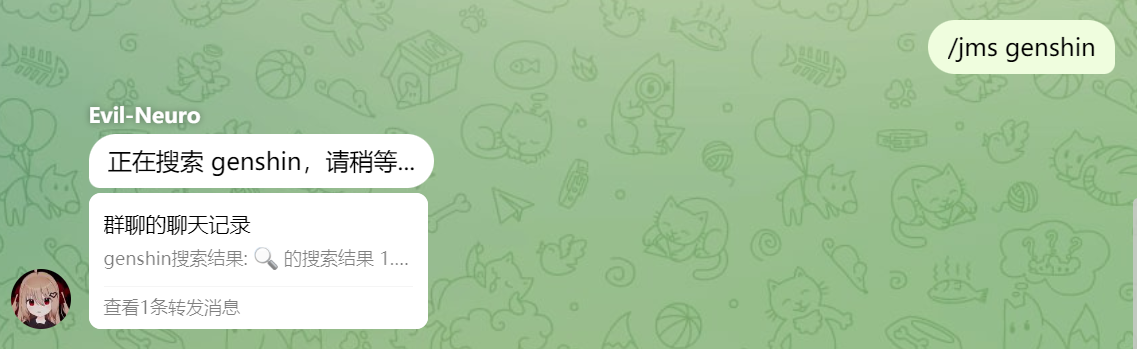
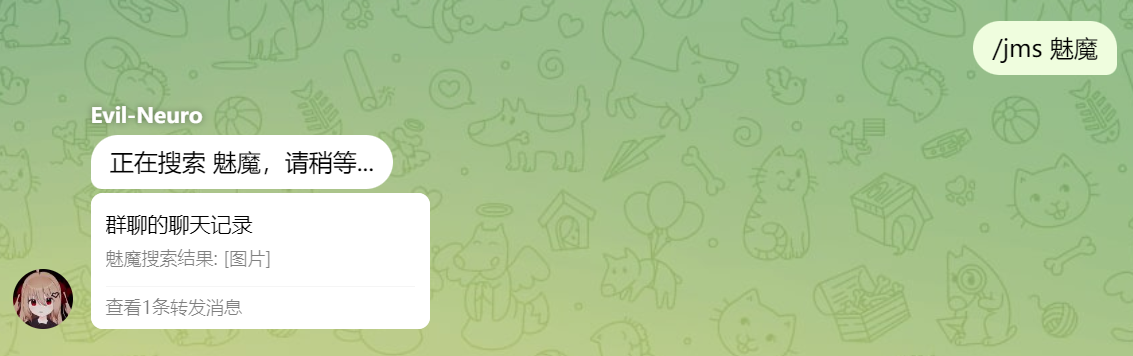
添加搜索结果图片生成支持，更新相关模板和处理逻辑

diff --git a/templates/search_result.html b/templates/search_result.html
@@ -1,0 +1,123 @@
+<!DOCTYPE html>
+<html lang="zh-CN">
+<head>
+    <meta charset="UTF-8">
+    <meta name="viewport" content="width=device-width, initial-scale=1.0">
+    <title>搜索结果</title>
+    <style>
+        body {
+            font-family: 'PingFang SC', 'Microsoft YaHei', sans-serif;
+            background-color: #f5f5f5;
+            color: #333;
+            padding: 20px;
+            max-width: 720px;
+            margin: 0 auto;
+        }
+        .container {
+            background: white;
+            border-radius: 12px;
+            box-shadow: 0 2px 10px rgba(0, 0, 0, 0.1);
+            padding: 20px;
+        }
+        .header {
+            text-align: center;
+            margin-bottom: 20px;
+            padding-bottom: 12px;
+            border-bottom: 1px solid #eaeaea;
+        }
+        .title {
+            font-size: 1.5rem;
+            font-weight: bold;
+            color: #333;
+            margin: 0;
+        }
+        .subtitle {
+            color: #666;
+            margin-top: 5px;
+            font-size: 0.9rem;
+        }
+        .result-list {
+            list-style-type: none;
+            padding: 0;
+            margin: 0;
+        }
+        .result-item {
+            padding: 12px 15px;
+            border-bottom: 1px solid #eaeaea;
+            transition: background-color 0.2s;
+        }
+        .result-item:last-child {
+            border-bottom: none;
+        }
+        .result-item:hover {
+            background-color: #f9f9f9;
+        }
+        .album-id {
+            display: inline-block;
+            background-color: #5c6bc0;
+            color: white;
+            border-radius: 4px;
+            padding: 3px 6px;
+            font-size: 0.8rem;
+            margin-right: 8px;
+        }
+        .album-name {
+            font-weight: 600;
+        }
+        .footer {
+            margin-top: 20px;
+            padding-top: 15px;
+            border-top: 1px solid #eaeaea;
+            color: #666;
+            font-size: 0.9rem;
+        }
+        .tip {
+            display: flex;
+            align-items: center;
+            margin-bottom: 8px;
+        }
+        .tip-icon {
+            margin-right: 8px;
+            font-size: 1.2rem;
+        }
+        .page-info {
+            text-align: center;
+            margin-top: 15px;
+            font-size: 0.85rem;
+            color: #888;
+        }
+    </style>
+</head>
+<body>
+    <div class="container">
+        <div class="header">
+            <h1 class="title">搜索结果</h1>
+            <p class="subtitle">关键词: "{{ search.query }}" - 共找到 {{ search.total }} 个结果</p>
+        </div>
+        
+        <ul class="result-list">
+            {% for album in search.albums %}
+            <li class="result-item">
+                <span class="album-id">{{ album.album_id }}</span>
+                <span class="album-name">{{ album.name }}</span>
+            </li>
+            {% endfor %}
+        </ul>
+        
+        <div class="footer">
+            <div class="tip">
+                <span class="tip-icon">💡</span>
+                <span>发送 /jm [ID] 下载指定漫画</span>
+            </div>
+            <div class="tip">
+                <span class="tip-icon">🔍</span>
+                <span>发送 /jms {{ search.query }} {{ search.page + 1 }} 搜索下一页</span>
+            </div>
+        </div>
+        
+        <div class="page-info">
+            第 {{ search.page }} 页 {% if search.limit %}· 每页 {{ search.limit }} 条{% endif %}
+        </div>
+    </div>
+</body>
+</html>

diff --git a/model.py b/model.py
@@ -137,3 +137,24 @@ class SearchResult(BaseModel):
     @property
     def str(self) -> str:
         return self.format_search_results()
+
+    @property
+    async def meta_img(self) -> Union[AlconnaImage, str]:
+        """
+        生成搜索结果的图片版本
+
+        Returns:
+            Union[AlconnaImage, str]: 成功时返回AlconnaImage对象，失败时返回文本版本
+        """
+        try:
+            pic_bytes = await template_to_pic(
+                template_path=str(TEMPLATE_DIR),
+                template_name="search_result.html",
+                templates={"search": self.model_dump()},
+                pages={"viewport": {"width": 720, "height": 1}},
+            )
+
+            return AlconnaImage(raw=pic_bytes)
+        except Exception as e:
+            logfire.error(f"生成搜索结果图片失败: {str(e)}", _exc_info=True)
+            return self.format_search_results()

diff --git a/__init__.py b/__init__.py
@@ -218,7 +218,7 @@ async def handle_search(bot: Bot, event: Event, keyword: Match[str], page: Match
         if search_result:
             await search_command.send(
                 await merge_forward(
-                    [search_result.str],
+                    [await search_result.meta_img],
                     uid=event.user_id,
                     name=f"{keyword_value}搜索结果",
                 )
